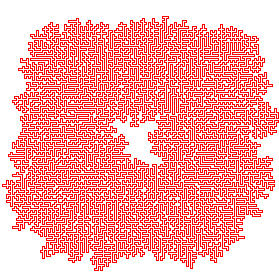
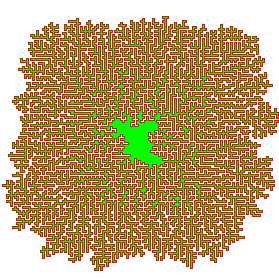
improving flood

Changed region(s): [[0.0, 0.0573, 1.0, 0.9749]]

diff --git a/day10/day10.go b/day10/day10.go
@@ -8,12 +8,15 @@ import (
 	"os"
 	"slices"
 	"strings"
+
+	xmaps "golang.org/x/exp/maps"
 )
 
 var input []string
 
 var Red = color.RGBA64{65535, 0, 0, 65535}
 var Blue = color.RGBA64{0, 0, 65535, 65535}
+var Green = color.RGBA64{0, 65535, 0, 65535}
 
 func fill[T any](slice []T, val T) {
 	for i := range slice {
@@ -67,6 +70,30 @@ func ReplaceNonBounds(bounds []image.Point) {
 	}
 }
 
+func Flood(img *image.RGBA64, bounds []image.Point, fillStartDir image.Point, fillColor color.RGBA64) []image.Point {
+	infected := make(map[image.Point]struct{}, 0)
+	firstBlood := findS(input).Add(fillStartDir)
+	img.SetRGBA64(firstBlood.X, firstBlood.Y, fillColor)
+	infected[firstBlood] = struct{}{}
+	replaced := true
+	for replaced {
+		replaced = false
+		for p, _ := range infected {
+			for _, direction := range Directions {
+				patient := p.Add(direction)
+				_, alreadyInfected := infected[patient]
+				if !slices.Contains(bounds, patient) && !alreadyInfected {
+					img.SetRGBA64(patient.X, patient.Y, fillColor)
+					infected[patient] = struct{}{}
+					replaced = true
+				}
+			}
+		}
+
+	}
+	return xmaps.Keys(infected)
+}
+
 func Execute() {
 	inputBytes, err := os.ReadFile("day10/input.txt")
 	// inputBytes, err := os.ReadFile("day10/calibration4.txt")
@@ -99,6 +126,7 @@ func Execute() {
 	img.SetRGBA64(s.X, s.Y, Blue)
 
 	// fill
+	Flood(img, expandedBounds, Left, Green)
 
 	// draw image
 	f, err := os.Create("draw.png")

diff --git a/day10/player.go b/day10/player.go
@@ -10,6 +10,8 @@ var Left = image.Point{-1, 0}
 var Down = image.Point{0, 1}
 var Right = image.Point{1, 0}
 
+var Directions = [4]image.Point{Up, Left, Down, Right}
+
 type Player struct {
 	Direction image.Point
 	Location  image.Point
